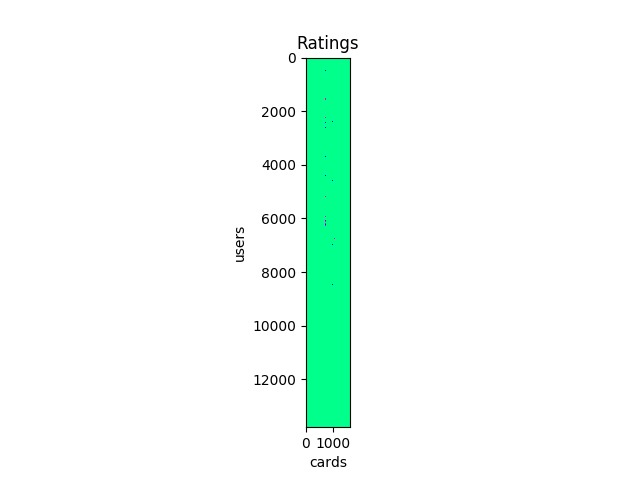
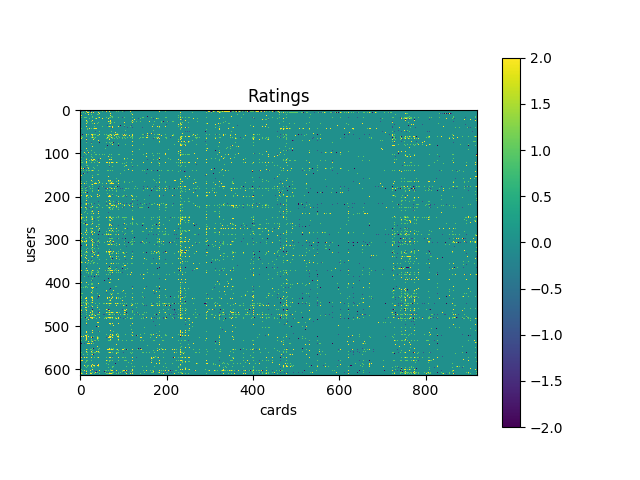
Statistics page: render matrices nicely, plot observed/predicted distributions

diff --git a/rateme/templates/statistics.html b/rateme/templates/statistics.html
@@ -13,5 +13,15 @@
     <img src="{% static "observed.png" %}" alt="Ratings">
     <h3>Predicted Ratings</h3>
     <img src="{% static "predicted.png" %}" alt="Predicted ratings">
+
+    <h3>Observed User Rating Distribution</h3>
+    <img src="{% static "user_dist_o.png" %}" alt="Observed User Rating Distribution">
+    <h3>Predicted User Rating Distribution</h3>
+    <img src="{% static "user_dist_p.png" %}" alt="Predicted User Rating Distribution">
+
+    <h3>Observed Card Rating Distribution</h3>
+    <img src="{% static "card_dist_o.png" %}" alt="Observed Card Rating Distribution">
+    <h3>Predicted Card Rating Distribution</h3>
+    <img src="{% static "card_dist_p.png" %}" alt="Predicted Card Rating Distribution">
   </div>
 {% endblock %}

diff --git a/rateme/management/commands/make_statistics.py b/rateme/management/commands/make_statistics.py
@@ -87,7 +87,7 @@ class Command(BaseCommand):
                str(len(data)/(num_users*num_cards)*100) + "%")
 
         def get_sing_vals_rank(matrix):
-            ut, s, vt = sparsesvd(csc_matrix(matrix), 15)
+            ut, s, vt = sparsesvd(csc_matrix(matrix), 100)
 
             return s
 
@@ -104,7 +104,15 @@ class Command(BaseCommand):
 
         plt.close()
 
-        plt.imshow(observed_padded.toarray(), cmap='gist_rainbow')
+        observed_padded = observed_padded.toarray()
+        
+        # fix aspect ratio
+        m = int(1.5*min(observed_padded.shape))
+        x = min(observed_padded.shape[0], m)
+        y = min(observed_padded.shape[1], m)
+
+        plt.imshow(observed_padded[:x,:y], vmin=-2, vmax=2)
+        plt.colorbar()
         plt.title("Ratings")
         plt.xlabel("cards")
         plt.ylabel("users")
@@ -112,8 +120,45 @@ class Command(BaseCommand):
         
         plt.close()
         
-        plt.imshow(predicted, cmap='gist_rainbow')
+        plt.imshow(predicted[:x,:y], vmin=-2, vmax=2)
+        plt.colorbar()
         plt.title("Predicted Ratings")
         plt.xlabel("cards")
         plt.ylabel("users")
         plt.savefig("rateme/static/predicted")
+
+        plt.close()
+
+        m = 10
+        alpha = 0.4
+
+        _, bins, _ = plt.hist(observed_padded[0,:][observed_padded[0,:] != 0][:], bins=100, alpha=alpha)
+        for i in range(1, m):
+            _ = plt.hist(observed_padded[i,:][observed_padded[i,:] != 0][:], bins=bins, alpha=alpha)
+        plt.title("Observed User Distribution")
+        plt.savefig("rateme/static/user_dist_o")
+
+        plt.close()
+
+        _, bins, _ = plt.hist(observed_padded[:,0][observed_padded[:,0] != 0][:], bins=100, alpha=alpha)
+        for i in range(1, m):
+            _ = plt.hist(observed_padded[:,i][observed_padded[:,i] != 0][:], bins=bins, alpha=alpha)
+        plt.title("Observed Card Distribution")
+        plt.savefig("rateme/static/card_dist_o")
+
+        plt.close()
+
+        _, bins, _ = plt.hist(predicted[0,:], bins=100, alpha=alpha)
+        for i in range(1, m):
+            _ = plt.hist(predicted[i,:], bins=bins, alpha=alpha)
+        plt.title("Predicted User Distribution")
+        plt.savefig("rateme/static/user_dist_p")
+
+        plt.close()
+
+        _, bins, _ = plt.hist(predicted[:,0], bins=100, alpha=alpha)
+        for i in range(1, m):
+            _ = plt.hist(predicted[:,i], bins=bins, alpha=alpha)
+        plt.title("Predicted Card Distribution")
+        plt.savefig("rateme/static/card_dist_p")
+

diff --git a/rateme/management/commands/make_recommendations.py b/rateme/management/commands/make_recommendations.py
@@ -10,11 +10,11 @@ import psycopg2
 import time
 import sys
 
-NSTEPS = 10#3 # number of iteration steps between saving
+NSTEPS = 3#10#3 # number of iteration steps between saving
 # NOTE: rank 15 is too small, let's try 30
 # 30 is still too small, try 60. NOTE: 100 was ok but felt like overfitting. Overfitting better?
 
-RANK = 10 # 7 # 5
+RANK = 60#10 # 7 # 5
 CONSIDER_ACTIVE = 30*60*60*24 # in seconds, 
                               # i.e. 60*60*24 -- only update those users that logged in at least a day ago
 MINRATING = 0.1 # minimum rating to consider for recommendation
